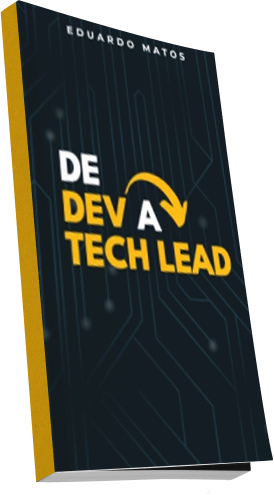
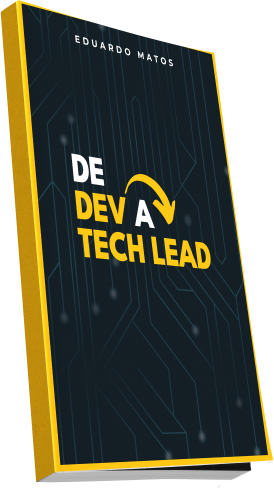
Ajuste e atulização de imagem do ebook

diff --git a/docs/index.html b/docs/index.html
@@ -760,7 +760,7 @@
     <div class="bg-neutral-900 flex flex-wrap w-full  max-w-5xl mt-20 lg:mt-32 border border-white/30 rounded-xl p-5 opacity-0 intersect:animate-fade-up animate-once animate-delay-100 intersect-once intersect-half">
 
       <div class="w-full sm:w-2/5">
-        <img class="mx-auto -mt-16 w-40 sm:w-full" src="img/ebook.png" alt="Imagem de um ebook chamado De dev a tech lead">
+        <img class="mx-auto -mt-16 w-40 sm:w-60" src="img/ebook.png" alt="Imagem de um ebook chamado De dev a tech lead">
       </div>
 
       

diff --git a/docs/output.css b/docs/output.css
@@ -1722,6 +1722,14 @@ div.slick-dotted.slick-slider {
     width: 100%;
   }
 
+  .sm\:w-40 {
+    width: 10rem;
+  }
+
+  .sm\:w-60 {
+    width: 15rem;
+  }
+
   .sm\:max-w-\[350px\] {
     max-width: 350px;
   }
